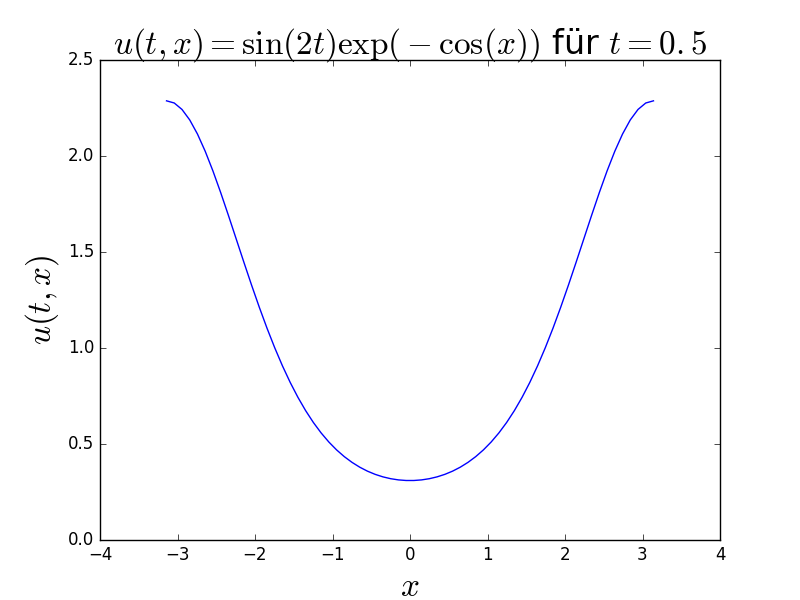
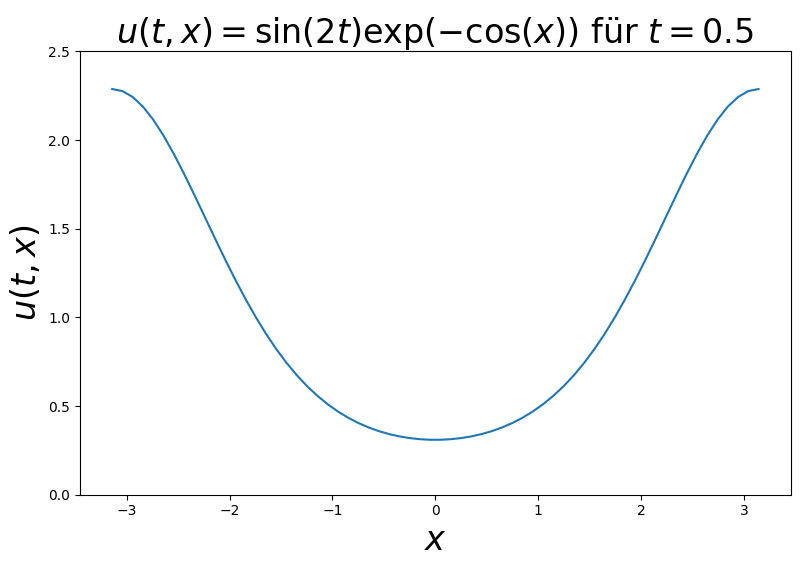
Added trial 8.

diff --git a/thesis/tex/Chapters/Chapter4.tex b/thesis/tex/Chapters/Chapter4.tex
@@ -146,12 +146,12 @@ Ein Beispiel sei für $N=2$ und $P=14$ gemacht, wo für Legendre- und Hermite-Po
 \subsection{Vergleiche der Ansätze}
 Wir reduzieren uns für $N=1$ auf die Nullstellen derjenigen Orthogonalpolynome, die gemäß des gPC zu der Verteilung von $Y$ gehören. Für das kompakte Interval $I=[-1,1]$ wäre es ebenso möglich die \chebyspace Interpolationspunkte zu verwenden. Diese bieten aber nach unseren Beobachtungen keinen Vorteil.\\
 Für $N>1$ besteht die Möglichkeit das volle Tensorprodukt der jeweiligen eindimensionalen Interpolationspunkte zu den Komponenten von $Y$ zu wählen. Da dies jedoch im Allgemeinen mehr Punkte umfasst als die vorhandenen $M+1$ Polynome, ist das lineare Gleichungssystem überbestimmt und wir beobachten eine hohe Kondition der Matrix. Dies sorgt insbesondere dafür, dass die Approximation der Varianz, welche jede Komponente des Lösungsvektors benötigt, bereits für $P>3$ instabil ist.\\
-Anhand der \nameref{trial:4} aus dem Appendix mit $N=4$ vergleichen wir die beiden Wahlen in Abbildung \ref{fig:collocation_trial4}. Wir sehen, dass sich der Erwartungswert mit beiden Ansätzen gleich gut approximieren lässt. Die Varianz ist durch das überbestimmte System beim full\_tensor Ansatz jedoch nicht berechenbar (für $P=9$ ergibt sich ein System der Größe $6^4\times \binom{4+9}{9} =1296\times 715$). Erhöht man $P$ weiter so beobachtet man auch für den centralized Ansatz zunehmende Instabilität. Der Erwartungswert des vollen Tensorproduktansatzes ist dabei bis zur Referenzgenauigkeit $\mathcal{O}(10^{-4})$ konvergiert. In beiden Fällen ist die Kondition der Matrix schon für $P=9$ in der Größenordnung $\mathcal{O}(10^6)$.
+Anhand der \nameref{trial:8} aus dem Appendix mit $N=4$ vergleichen wir die beiden Wahlen in Abbildung \ref{fig:collocation_trial8}. \todo[inline]{Centralized weglassen? Beschreibung auf jeden Fall anpassen...}Wir sehen, dass sich der Erwartungswert mit beiden Ansätzen gleich gut approximieren lässt. Die Varianz ist durch das überbestimmte System beim full\_tensor Ansatz jedoch nicht berechenbar (für $P=9$ ergibt sich ein System der Größe $6^4\times \binom{4+9}{9} =1296\times 715$). Erhöht man $P$ weiter so beobachtet man auch für den centralized Ansatz zunehmende Instabilität. Der Erwartungswert des vollen Tensorproduktansatzes ist dabei bis zur Referenzgenauigkeit $\mathcal{O}(10^{-4})$ konvergiert. In beiden Fällen ist die Kondition der Matrix schon für $P=9$ in der Größenordnung $\mathcal{O}(10^6)$.
 \begin{figure}[!htb]
 \centering
-\includegraphics[width=\linewidth]{Figures/collocation_mi_trial4_ft_centralized_p15.png}
-\caption{Approximation des Erwartungswerts und der Varianz von \nameref{trial:4} mithilfe von Collocation durch Interpolation und verschiedenen Ansätzen bis zu $P=15$.}
-\label{fig:collocation_trial4}
+\includegraphics[width=\linewidth]{Figures/collocation_mi_trial8_ft_centralized.png}
+\caption{Approximation des Erwartungswerts und der Varianz von \nameref{trial:8} mithilfe von Collocation durch Interpolation und verschiedenen Ansätzen bis zu $P=15$.}
+\label{fig:collocation_trial8}
 \end{figure}
 
 \section{Diskrete Projektion}
@@ -255,7 +255,7 @@ Interpolation & Diskrete Projektion\\
 \hline
 Collocationspunkte "'beliebig"' & Collocationspunkte entsprechen Quadraturpunkten\\
 \hline
-Benötigt keine weiteren Approximationen & Benötigt Quadraturgewichte zu Quadraturpunkten\\
+Benötigt Interpolationspunkte & Benötigt zusätzlich Quadraturgewichte zu Quadraturpunkten\\
 \hline
 Informationen über Stabilität durch Matrixkondition & Explizite Berechnung ohne gekoppeltes System\\
 \hline

diff --git a/polynomial_chaos/distributions.py b/polynomial_chaos/distributions.py
@@ -92,7 +92,7 @@ def make_gamma(shape, rate):
                                    if x > 0. else 0.),
                         (0, inf),
                         partial(random.gammavariate, shape, 1. / rate),
-                        inverse_distribution=partial(stats_gamma.ppf, a=shape, rate=1./rate),  # TODO parameters incorrect
+                        inverse_distribution=partial(stats_gamma.ppf, a=shape, scale=1./rate),
                         show_name="Gamma({}, {})".format(shape, rate),
                         parameters=(shape, rate))
 
@@ -128,9 +128,10 @@ def make_beta(alpha, beta):
 if __name__ == "__main__":
     import numpy as np
     import matplotlib.pyplot as plt
-    test_weight = False
+    test = "ppf"
 
-    if test_weight:
+    if test == "weight":
+        # test the distributions sample_generator to produce the correct weight function
         test_distribution = make_beta(1., 2.)
 
         data = [test_distribution.sample_generator() for _ in range(100000)]
@@ -143,7 +144,7 @@ if __name__ == "__main__":
         plt.ylim((0, plt.ylim()[1]))
         plt.legend()
         plt.show()
-    else:
+    elif test == "pdf":
         from scipy.stats import gamma as test_distr
         shape, rate = 0.5, 0.2  # >0
         loc, scale = 0., 1. / rate
@@ -159,5 +160,21 @@ if __name__ == "__main__":
         plt.plot(x_data, res1, 'x', label="pdf scipy")
         plt.plot(x_data, res2, label="pdf own")
         #plt.plot(y_data, test_distr.ppf(y_data, a, loc=loc, scale=scale), label='ppf scipy')
+        plt.legend()
+        plt.show()
+    elif test == "ppf":
+        # test if the inverse_distribution really produces the same distribution using uniformly distributed data
+        # by the inversion method
+        uniform_data = [random.uniform(0, 1) for _ in range(10000)]
+        shape, rate = 0.33, 1
+        distr = make_gamma(shape, rate)
+        inverted_data = list(map(distr.inverse_distribution, uniform_data))
+        hist, bin_edges = np.histogram(inverted_data, bins='auto', density=True)
+        bin_centers = bin_edges[:-1] + (bin_edges[1:] - bin_edges[:-1]) / 2
+
+        plt.figure()
+        plt.plot(bin_centers, hist, label="Calculated distribution")
+        plt.plot(bin_centers, np.vectorize(distr.weight)(bin_centers), label="PDF")
+        plt.ylim((0, plt.ylim()[1]))
         plt.legend()
         plt.show()

diff --git a/demo/stochastic_trials.py b/demo/stochastic_trials.py
@@ -79,6 +79,7 @@ trial_3 = StochasticTrial([distributions.make_uniform(-1, 1)],  # y[0] bigger th
                                                     - np.log(np.sin(sum(xs)) + left_3))))
 # expectancy error MI best we got is (centralized or full_tensor) 6.084676525001868e-05
 # variance error MI best we got is (centralized): 0.00095091110795730524
+# The Exp(Normal) part makes this overflow for collocation on level 5...
 trial_4 = StochasticTrial([distributions.gaussian, distributions.make_uniform(-1, 1),
                            distributions.make_beta(-0.5, 2.5), distributions.make_uniform(-1, 1)],
                           lambda xs, ys: np.sin(sum(xs)),
@@ -135,6 +136,20 @@ trial_7 = StochasticTrial([distributions.make_beta(0.5, 0.5)],
                     "stop_time", 0.5,
                     "expectancy_data", "../data/qmc_exp, 100000, Trial7, 0.5, 128.npy",
                     "variance_data", "../data/qmc_var, 100000, Trial7, 0.5, 128.npy")
+
+trial_8 = StochasticTrial([distributions.gaussian, distributions.make_uniform(-1, 1),
+                           distributions.make_beta(-0.5, 2.5), distributions.make_gamma(2, 1)],
+                          lambda xs, ys: np.sin(sum(xs)),
+                          lambda xs, ys: np.sin(sum(xs)) ** 2,
+                          random_variables=[lambda y: y, lambda y: (y + 1) / 2,
+                                            lambda y: y, lambda y: y],
+                          name="Trial8") \
+    .add_parameters("beta", lambda xs, ys: 3 + np.sin(xs[0] + ys[0]) + np.sin(xs[0] + ys[3]),
+                    "alpha", lambda ys: 1 + ys[1] + 0.5 * ys[2],
+                    "grid_size", 128,
+                    "stop_time", 0.5,
+                    "expectancy_data", "../data/qmc_exp, 100000, Trial8, 0.5, 128.npy",
+                    "variance_data", "../data/qmc_var, 100000, Trial8, 0.5, 128.npy")
 
 # accuracy of expectancy data for Galerkin: 0.006854368887610221, too many QP decrease again?! for MI: 1.1360616011928265e-05, zigzac, convergent for uneven poly degrees, unstable before fully converged around degree 60
 # accuracy of variance data for MI(dt=0.001): 7.38374747346e-05, zigzac, convergent for uneven degrees, same behavior as expectancy

diff --git a/demo/distribution_gpc.py b/demo/distribution_gpc.py
@@ -6,7 +6,7 @@ from polynomial_chaos.distributions import make_exponential, inverse_gaussian
 
 
 # Setup configurable parameters
-approx_orders_P = [1, 3, 5, 7, 9]  # orders to approximate and plot
+approx_orders_P = [1, 2, 5, 7, 9]  # orders to approximate and plot
 
 
 # Load required distributions and hermite polynomial basis
@@ -43,6 +43,9 @@ print(gpc_factors)
 def gpc_approx(y, factors):
     return sum(factor * hermite_basis(m)(y) for factor, m in zip(factors, range(len(factors))))
 
+x_data = np.arange(-1, 1.01, 0.01)
+plt.plot(x_data, np.vectorize(to_approximate.weight)(x_data), color=(0., 0., 0.), linewidth=2,
+         label="Beta(0.2,3) Verteilung auf $[-1,1]$", )
 bin_centers = None
 for marker, approx_order in zip(["D", ".", "-.", "-", "-", "-", "-"], approx_orders_P):
     # Calculate discrete distribution (=histogram) of the gpc approximation by sampling
@@ -63,8 +66,6 @@ for marker, approx_order in zip(["D", ".", "-.", "-", "-", "-", "-"], approx_ord
 
 
 plt.title("Schwache gPC Approximation der Beta(0.2,3) Verteilung durch Hermite Chaos")
-plt.plot(bin_centers, np.vectorize(to_approximate.weight)(bin_centers), color=(0.7, 0.2, 0.1), linewidth=2,
-         label="Beta(0.2,3) Verteilung auf $[-1,1]$", )
 plt.legend(loc='best')
 # plt.axis([-6, 14, 0, 1])
 plt.show()

diff --git a/demo/matrix_inversion_collo.py b/demo/matrix_inversion_collo.py
@@ -9,11 +9,11 @@ import util.quadrature.nesting as nst
 from util.quadrature.closed_fully_nested import ClosedFullNesting
 from polynomial_chaos.poly_chaos_distributions import get_chaos_name_by_distribution
 
-trial = st.trial_4
+trial = st.trial_8
 
 # "High order is not the same as high accuracy. High order translates to high accuracy only when the integrand
 # is very smooth" (http://apps.nrbook.com/empanel/index.html?pg=179#)
-N = list(range(17))  # maximum degree of the univariate polynomial
+N = list(range(13))  # maximum degree of the univariate polynomial
 
 # from n+1 to n+10 notably difference for most examples
 # number of nodes in random space, >= N+1, higher CAN give more accuracy (for higher polys)
@@ -45,7 +45,7 @@ stop_time = trial.get_parameter("stop_time", 0.5)
 # if grid_size is bigger this needs to be smaller, especially for higher poly degrees
 delta_time = trial.get_parameter("delta_time", 0.001)
 methods = ["full_tensor", "centralized"]  # ["full_tensor", "sparse", "sparse_gc", "centralized"]
-method_params = [M, [(n, False) for n in N]]  # [M, L, L_gc, [(n, False) for n in N]]
+method_params = [M, [(n, True) for n in N]]  # [M, L, L_gc, [(n, False) for n in N]]
 method_markers = ["-o", "-D", "-x", "-."]
 rank_frac = None
 exp_var_results = dict()

diff --git a/demo/discrete_projection_collo.py b/demo/discrete_projection_collo.py
@@ -16,12 +16,12 @@ import matplotlib.pyplot as plt
 #           time increase in p is linear due to caching but for p=15 already takes like 30 minutes for lvl 4
 
 # COMMON CONFIGURATION HERE:
-trial = st.trial_4  # which trial to calculate expectancy and variance for
+trial = st.trial_8  # which trial to calculate expectancy and variance for
 only_expectancy = False  # if only expectancy is to be calculated, this allows only using the zeroth polynomial!
 
 # Which values to choose for P and max_level greatly depend on the dimension of the trial's random space
 # the amount of basis polynomials in one dimension, is by one higher than values of P (= the sum bound)
-P = [0, 1, 5, 15] if not only_expectancy else [0]  # should not use more than 4 different values for P
+P = [0, 1, 3, 5, 6] if not only_expectancy else [0]  # should not use more than 4 different values for P
 max_level = 5  # from 0 to max_level (inclusive) this is the setting for the sparse quadrature
 
 # PROBABLY DOES NOT NEED TO BE CHANGED:

diff --git a/demo/splitting_cflplot.py b/demo/splitting_cflplot.py
@@ -13,9 +13,9 @@ from util.analysis import error_l2_relative
 dimension = 1
 grid_size_Ns = [256, 512, 1024, 2048, 2048*2]
 plt.figure()
-plt.title("Abhängigkeit der CFL Zahl $\\tilde{c}$ vom Gewicht $w$", fontsize="xx-large")
-plt.xlabel("Gewicht $w$", fontsize="xx-large")
-plt.ylabel("CFL Zahl $\\tilde{c}$", fontsize="xx-large")
+plt.title("Abhängigkeit der CFL Zahl $\\tilde{c}$ vom Gewicht $w$")
+plt.xlabel("Gewicht $w$")
+plt.ylabel("CFL Zahl $\\tilde{c}$")
 for grid_size_N in grid_size_Ns:
     print(grid_size_N)
     domain = list(repeat([-np.pi, np.pi], dimension))
@@ -63,5 +63,5 @@ for grid_size_N in grid_size_Ns:
             cfl_constants.append(0)
     print(cfl_constants)
     plt.plot(weights, cfl_constants, label="$N={}$".format(grid_size_N))
-plt.legend(fontsize="xx-large")
+plt.legend()
 plt.show()

diff --git a/demo/monte_carlo.py b/demo/monte_carlo.py
@@ -16,14 +16,14 @@ domain = list(repeat([-np.pi, np.pi], dimension))
 delta_time = 0.001
 start_time = 0.
 stop_time = 0.5
-save_last_solution = False
-simulations_count = 10000
+save_last_solution = True
+simulations_count = 100000
 do_quasi_monte_carlo = True
 
 # the factor of the step number between two consecutive solutions used to estimate order of convergence
 order_factor = 10  # >=2, integer
 
-trial = st.trial_reg0
+trial = st.trial_8
 
 splitting_xs, splitting_xs_mesh, expectancy, variance, expectancy_errors, variance_errors, \
     solutions, solutions_for_order_estimate = \

diff --git a/demo/halton_numbers.py b/demo/halton_numbers.py
@@ -8,9 +8,13 @@ plt.subplot(121)
 plt.title("Halton Sequenz in 2D", fontsize="x-large")
 halton_values = halton.halton_sequence(1, 201, 2)
 plt.plot(halton_values[0, :], halton_values[1, :], "o")
+plt.xlim((0, 1))
+plt.ylim((0, 1))
 plt.subplot(122)
 plt.title("Gleichverteilte Pseudozufallszahlen in 2D", fontsize="x-large")
 random_values = rnd.uniform(0., 1., (2, 200))
 plt.plot(random_values[0, :], random_values[1, :], "o")
+plt.xlim((0, 1))
+plt.ylim((0, 1))
 plt.show()
 

diff --git a/demo/show_reference.py b/demo/show_reference.py
@@ -4,7 +4,7 @@ import numpy as np
 import matplotlib
 
 trial = sp.trial_frog
-dim = 1
+dim = 2
 time = 0.5
 grid_size_N = 64
 
